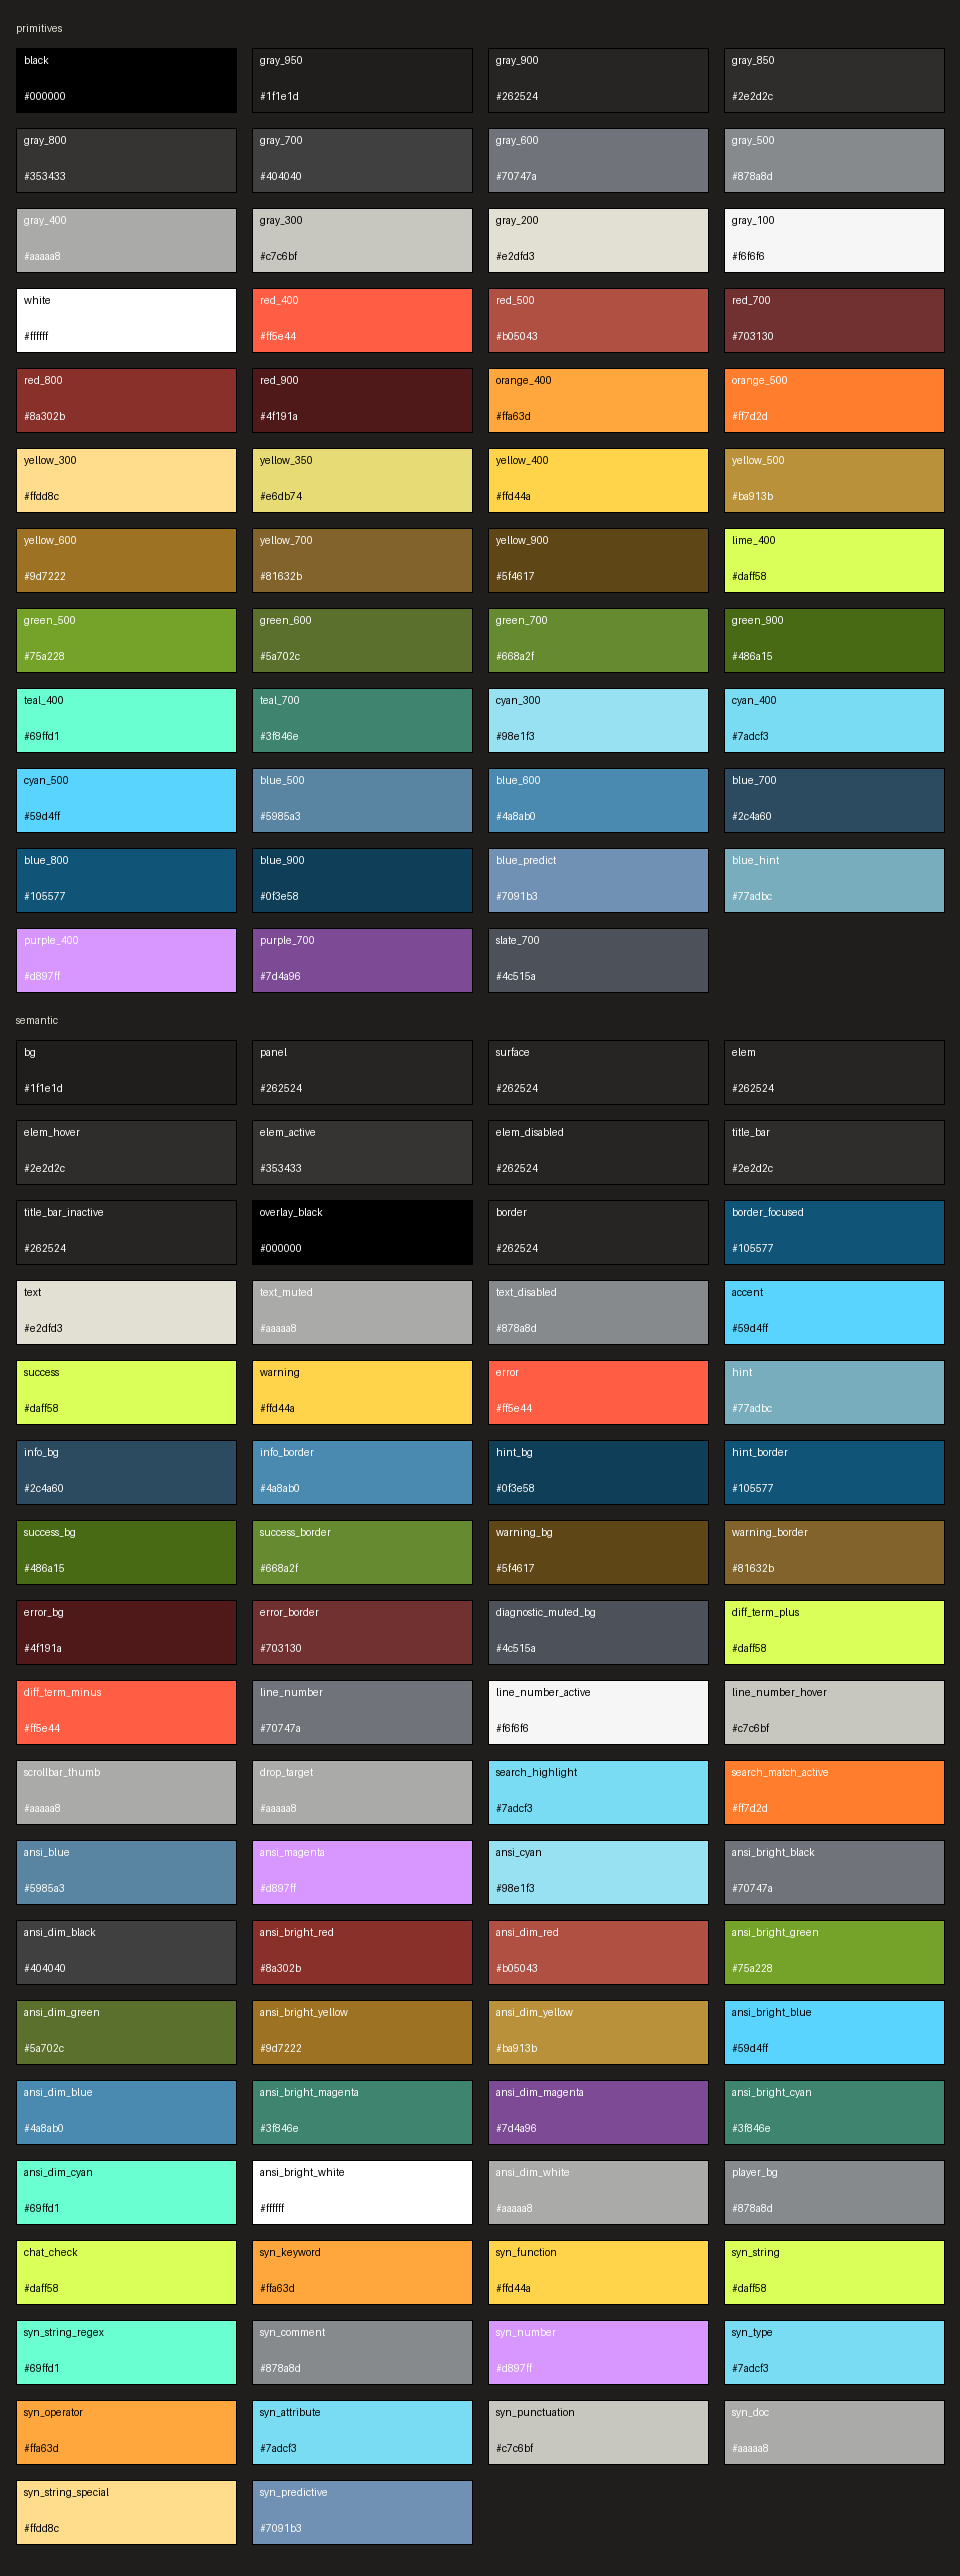
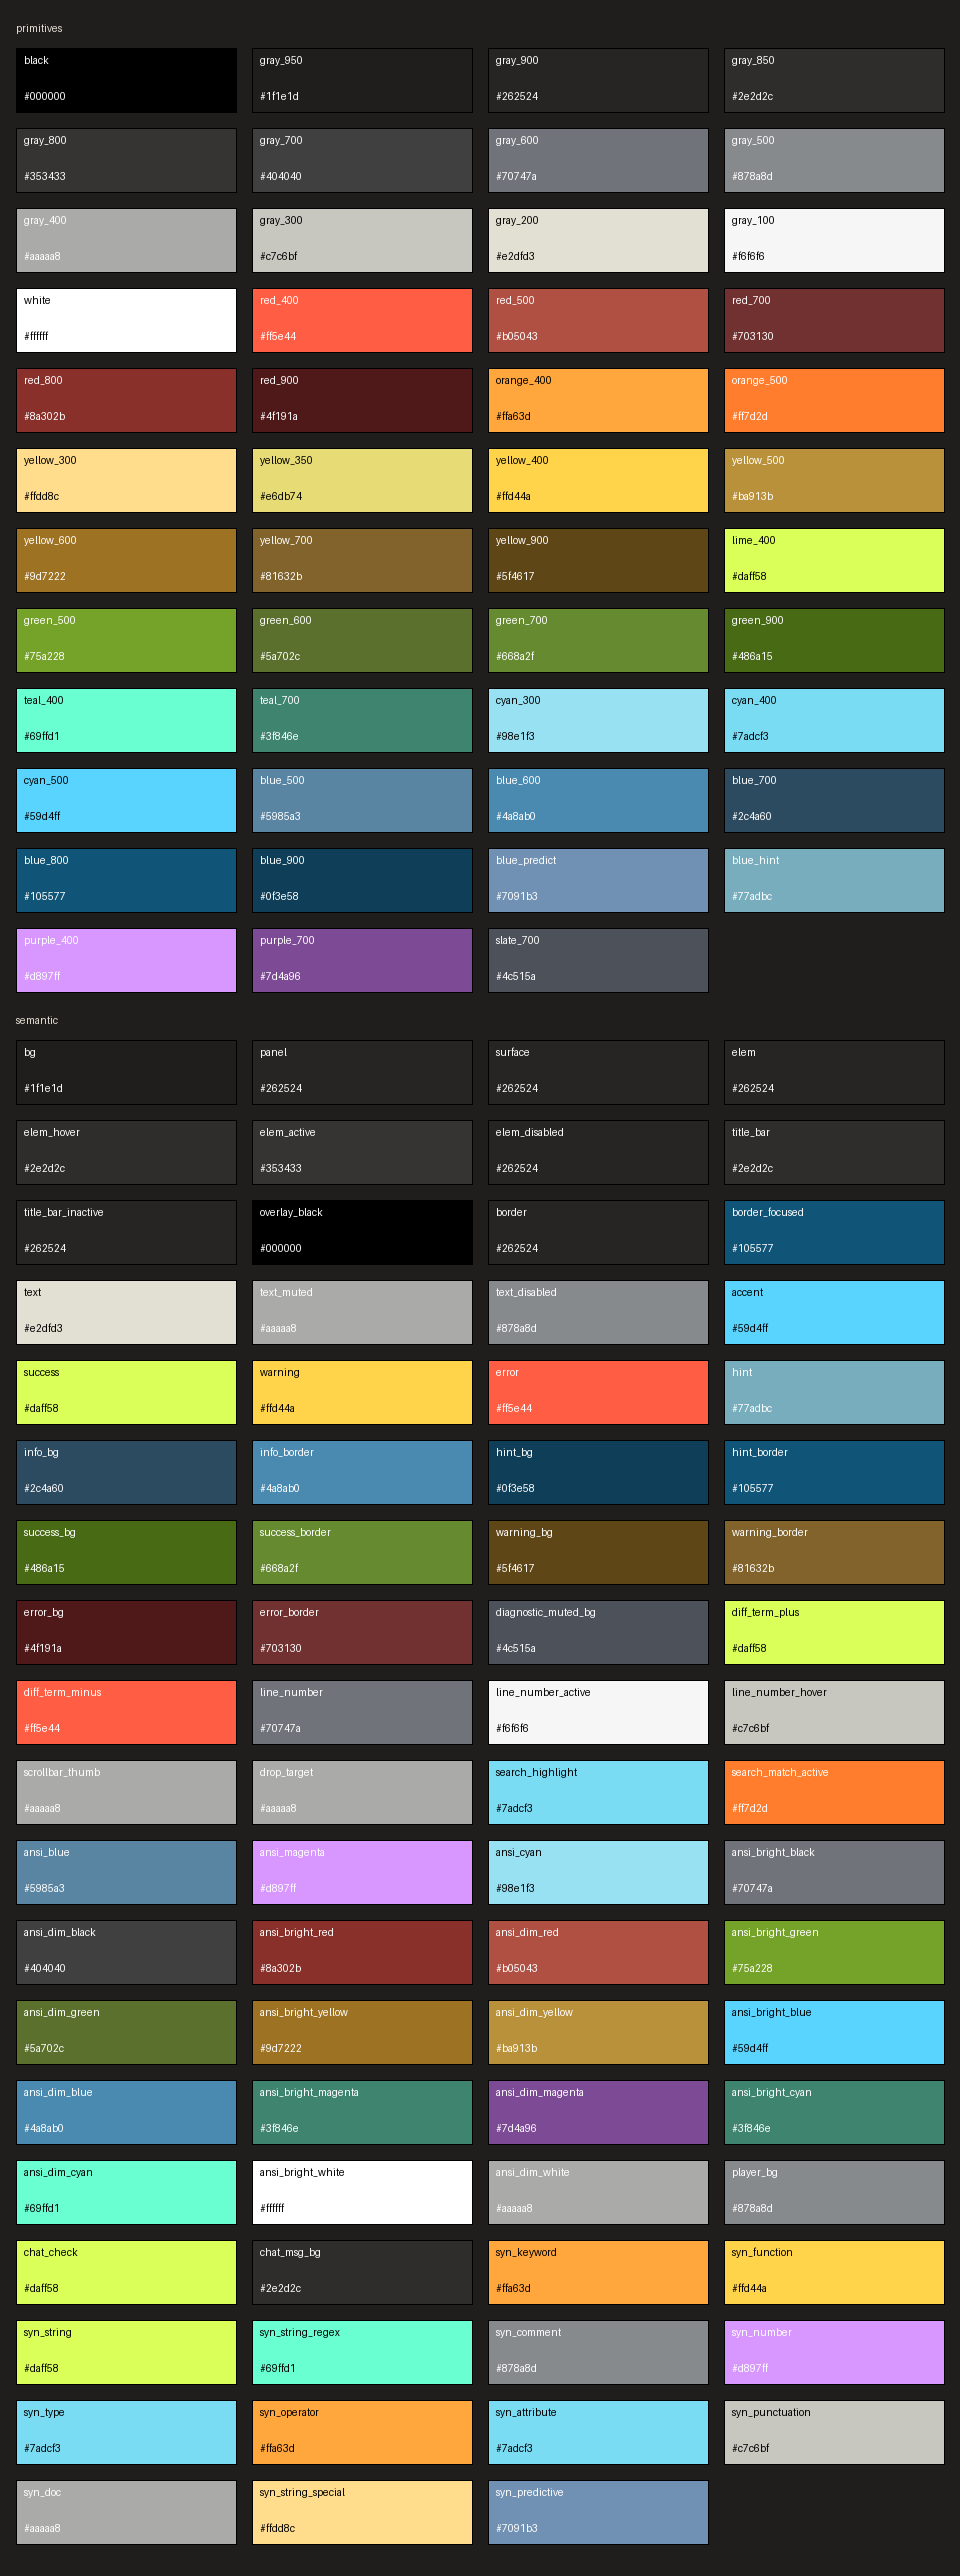
Add chat_msg_bg token and use for chat bubbles
Define chat_msg_bg in palette and config.
Use it for Telegram msgInBg/msgOutBg and for iOS chat bubbles.
Update the desktop Telegram theme and builder to reference the token.

Changed region(s): [[0.0, 0.8696, 1.0, 0.9938]]

diff --git a/telegram/build.py b/telegram/build.py
@@ -60,9 +60,9 @@ def build_telegram(p: Palette) -> str:
         ("dialogsUnreadFg",           p.bg),
         ("dialogsUnreadFgActive",     p.bg),
 
-        ("msgInBg",                   p.surface),
+        ("msgInBg",                   p.chat_msg_bg),
         ("msgInBgSelected",           p.elem_active),
-        ("msgOutBg",                  p.elem),
+        ("msgOutBg",                  p.chat_msg_bg),
         ("msgOutBgSelected",          p.elem_active),
         ("msgInDateFg",               p.text_muted),
         ("msgOutDateFg",              p.text_muted),

diff --git a/telegram_ios/build.py b/telegram_ios/build.py
@@ -36,8 +36,8 @@ def build_ios(p: Palette) -> dict:
     # for inline text accents — unread bg, mentions, reply bars, service text,
     # light-button fg. Mirror that split here so both targets read the same.
     inline_accent = p.ansi_cyan
-    incoming_bubble = p.surface
-    outgoing_bubble = p.elem
+    incoming_bubble = p.chat_msg_bg
+    outgoing_bubble = p.chat_msg_bg
     return {
         "name": "Ayu Graphite",
         "basedOn": "night",

diff --git a/palette.py b/palette.py
@@ -83,6 +83,7 @@ class Palette:
     player_bg: str
 
     chat_check: str
+    chat_msg_bg: str
 
     syn_keyword: str
     syn_function: str